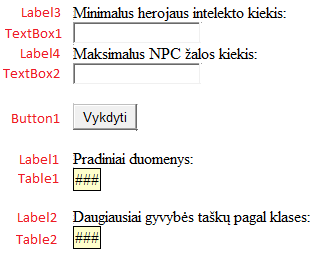
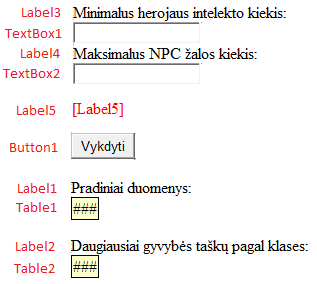
fix: add test cases to `L4.LD_24`

diff --git a/L4/LD_24/Forma1.aspx.designer.cs b/L4/LD_24/Forma1.aspx.designer.cs
@@ -7,13 +7,11 @@
 // </auto-generated>
 //------------------------------------------------------------------------------
 
-namespace LD_24
-{
-
-
-    public partial class Forma1
-    {
-
+namespace LD_24 {
+    
+    
+    public partial class Forma1 {
+        
         /// <summary>
         /// form1 control.
         /// </summary>
@@ -22,7 +20,7 @@ namespace LD_24
         /// To modify move field declaration from designer file to code-behind file.
         /// </remarks>
         protected global::System.Web.UI.HtmlControls.HtmlForm form1;
-
+        
         /// <summary>
         /// Label3 control.
         /// </summary>
@@ -31,7 +29,7 @@ namespace LD_24
         /// To modify move field declaration from designer file to code-behind file.
         /// </remarks>
         protected global::System.Web.UI.WebControls.Label Label3;
-
+        
         /// <summary>
         /// TextBox1 control.
         /// </summary>
@@ -40,7 +38,7 @@ namespace LD_24
         /// To modify move field declaration from designer file to code-behind file.
         /// </remarks>
         protected global::System.Web.UI.WebControls.TextBox TextBox1;
-
+        
         /// <summary>
         /// Label4 control.
         /// </summary>
@@ -49,7 +47,7 @@ namespace LD_24
         /// To modify move field declaration from designer file to code-behind file.
         /// </remarks>
         protected global::System.Web.UI.WebControls.Label Label4;
-
+        
         /// <summary>
         /// TextBox2 control.
         /// </summary>
@@ -58,7 +56,16 @@ namespace LD_24
         /// To modify move field declaration from designer file to code-behind file.
         /// </remarks>
         protected global::System.Web.UI.WebControls.TextBox TextBox2;
-
+        
+        /// <summary>
+        /// Label5 control.
+        /// </summary>
+        /// <remarks>
+        /// Auto-generated field.
+        /// To modify move field declaration from designer file to code-behind file.
+        /// </remarks>
+        protected global::System.Web.UI.WebControls.Label Label5;
+        
         /// <summary>
         /// Button1 control.
         /// </summary>
@@ -67,7 +74,7 @@ namespace LD_24
         /// To modify move field declaration from designer file to code-behind file.
         /// </remarks>
         protected global::System.Web.UI.WebControls.Button Button1;
-
+        
         /// <summary>
         /// Label1 control.
         /// </summary>
@@ -76,7 +83,7 @@ namespace LD_24
         /// To modify move field declaration from designer file to code-behind file.
         /// </remarks>
         protected global::System.Web.UI.WebControls.Label Label1;
-
+        
         /// <summary>
         /// Table1 control.
         /// </summary>
@@ -85,7 +92,7 @@ namespace LD_24
         /// To modify move field declaration from designer file to code-behind file.
         /// </remarks>
         protected global::System.Web.UI.WebControls.Table Table1;
-
+        
         /// <summary>
         /// Label2 control.
         /// </summary>
@@ -94,7 +101,7 @@ namespace LD_24
         /// To modify move field declaration from designer file to code-behind file.
         /// </remarks>
         protected global::System.Web.UI.WebControls.Label Label2;
-
+        
         /// <summary>
         /// Table2 control.
         /// </summary>

diff --git a/L4/LD_24/Forma1.aspx.cs b/L4/LD_24/Forma1.aspx.cs
@@ -36,9 +36,7 @@ namespace LD_24
                 actors = InOutUtils.ReadActorsDir(Server.MapPath("App_Data"));
             } catch (Exception ex)
             {
-                Debug.WriteLine("Oops an error occured:");
-                Debug.WriteLine(ex);
-                throw ex;
+                Label5.Text = ex.Message;
             }
 
             Label1.Visible = false;
@@ -47,6 +45,8 @@ namespace LD_24
 
         protected void Button1_Click(object sender, EventArgs e)
         {
+            if (Label5.Text.Length > 0) return;
+
             Label1.Visible = true;
             Label2.Visible = true;
 
